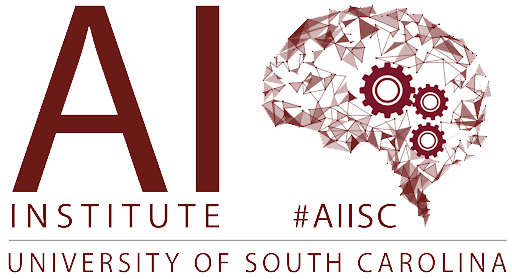
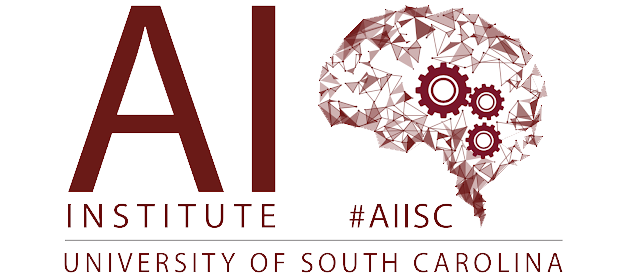
JS

diff --git a/index.html b/index.html
@@ -16,6 +16,7 @@
   <link rel="stylesheet" href="https://stackpath.bootstrapcdn.com/bootstrap/4.3.1/css/bootstrap.min.css" integrity="sha384-ggOyR0iXCbMQv3Xipma34MD+dH/1fQ784/j6cY/iJTQUOhcWr7x9JvoRxT2MZw1T" crossorigin="anonymous">
 <link rel="stylesheet" href="css/style.css">
 <link rel="stylesheet" href="css/sidebar.css">
+<link rel="stylesheet" href="css/collapsible.css">
 <link rel = "icon" type = "image/png" alt="Tarun Garg" title="Tarun Garg" href = "static/photo.png">
 <title> Tarun Garg </title>
 </head>
@@ -117,13 +118,16 @@ Saint Anselm's School, Mansarovar, Jaipur
 <img src="static/aiisc.png" alt="aiisc">
 </div>
 <div class="col-md-6">
+<button type="button" class="collapsible">
 <h3>Research Intern</h3>
 <h4>July 2020 - Present</h4>
+</button>
+<div class="content">
 <ul>
 <li><a href="research.html">Improving Information Extraction from health-related text using knowledge graphs.</a>
 </ul>
 </div>
-<!-- <strong>Artificial Intelligence Institute, University of South Carolina</strong> -->
+</div>
 </div>
 <hr>
 <div class='row'>
@@ -131,11 +135,15 @@ Saint Anselm's School, Mansarovar, Jaipur
 <img src="static/walmart.png" alt="walmart">
 </div>
 <div class="col-md-6">
+<button type="button" class="collapsible">
 <h3>Data Science Intern</h3>
 <h4>May 2020 - July 2020</h4>
+</button>
+<div class="content">
 <ul>
 <li><a href="anomaly.html">Anomaly detection in Power Consumption</a>
 </ul>
+</div>
 </div>
 </div>
 <hr>
@@ -144,14 +152,17 @@ Saint Anselm's School, Mansarovar, Jaipur
 <img src="static/99roomz.png" alt="99roomz">
 </div>
 <div class="col-md-6">
+<button type="button" class="collapsible">
 <h3>Data Science Intern</h3>
 <h4>May 2019 - July 2019</h4>
+</button>
+<div class="content">
 <ul>
 <li> <a href="hotel.html">Feature extraction from hotel reviews</a>
 <li> <a href="lokly.html">Indian Address Parser</a>
 </ul>
 </div>
-
+</div>
 </div>
 <hr>
 <div class='row'>
@@ -159,11 +170,15 @@ Saint Anselm's School, Mansarovar, Jaipur
 <img src="static/kec.png" alt="KEC" style="padding-top:10px;padding-bottom:10px">
 </div>
 <div class="col-md-6">
+<button type="button" class="collapsible">
 <h3>Logistic Intern</h3>
 <h4>May 2018 - July 2018</h4>
+</button>
+<div class="content">
 <ul>
 <li><a href="kec.html">Vehicle Waiting Time Analysis</a>
 </ul>
+</div>
 </div>
 </div>
 <hr>

diff --git a/css/collapsible.css b/css/collapsible.css
@@ -1,0 +1,36 @@
+.collapsible {
+  background-color: Transparent;
+  /* color: white; */
+  cursor: pointer;
+  padding: 18px;
+  width: 100%;
+  border: none;
+  text-align: left;
+  outline: none;
+  font-size: 15px;
+}
+
+.active, .collapsible:hover {
+  background-color: rgba(143, 224, 132, 0.2);
+}
+
+.collapsible:after {
+  /* content: '\002B'; */
+  /* color: white; */
+  font-weight: bold;
+  float: right;
+  margin-left: 5px;
+}
+
+.active:after {
+  content: "\2212";
+}
+
+.content {
+  background-color: Transparent;
+
+  padding: 0 18px;
+  max-height: 0;
+  overflow: hidden;
+  transition: max-height 0.2s ease-out;
+}

diff --git a/js/side.js b/js/side.js
@@ -21,3 +21,18 @@ function closeNavMobile() {
 		  document.getElementById("mySidebar").style.width = "0";
 	}
 }
+
+var coll = document.getElementsByClassName("collapsible");
+var i;
+
+for (i = 0; i < coll.length; i++) {
+  coll[i].addEventListener("click", function() {
+    this.classList.toggle("active");
+    var content = this.nextElementSibling;
+    if (content.style.maxHeight){
+      content.style.maxHeight = null;
+    } else {
+      content.style.maxHeight = content.scrollHeight + "px";
+    } 
+  });
+}

diff --git a/css/style.css b/css/style.css
@@ -2,6 +2,13 @@
   body{
     font-size: 23px;
   }
+	  img
+	  {
+		width:100%;
+		margin:auto;
+		padding:auto;
+
+	  }
 
   
 	#workexp img{
@@ -9,8 +16,8 @@
 	  display: block;
 	  margin-left: auto;
 	  margin-right: auto;
-	  padding-top:10%;
-	  padding-bottom:10%;
+	  padding-top:2%;
+	  padding-bottom:2%;
 	}
 
 	 .data{
@@ -73,13 +80,6 @@
 	 padding:10vh 20vw 10vh 20vw;
 	 }
   
-	  img
-	  {
-		width:100%;
-		margin:auto;
-		padding:auto;
-
-	  }
 	.nav {
 		/* display: flex; */
 		position: fixed;
